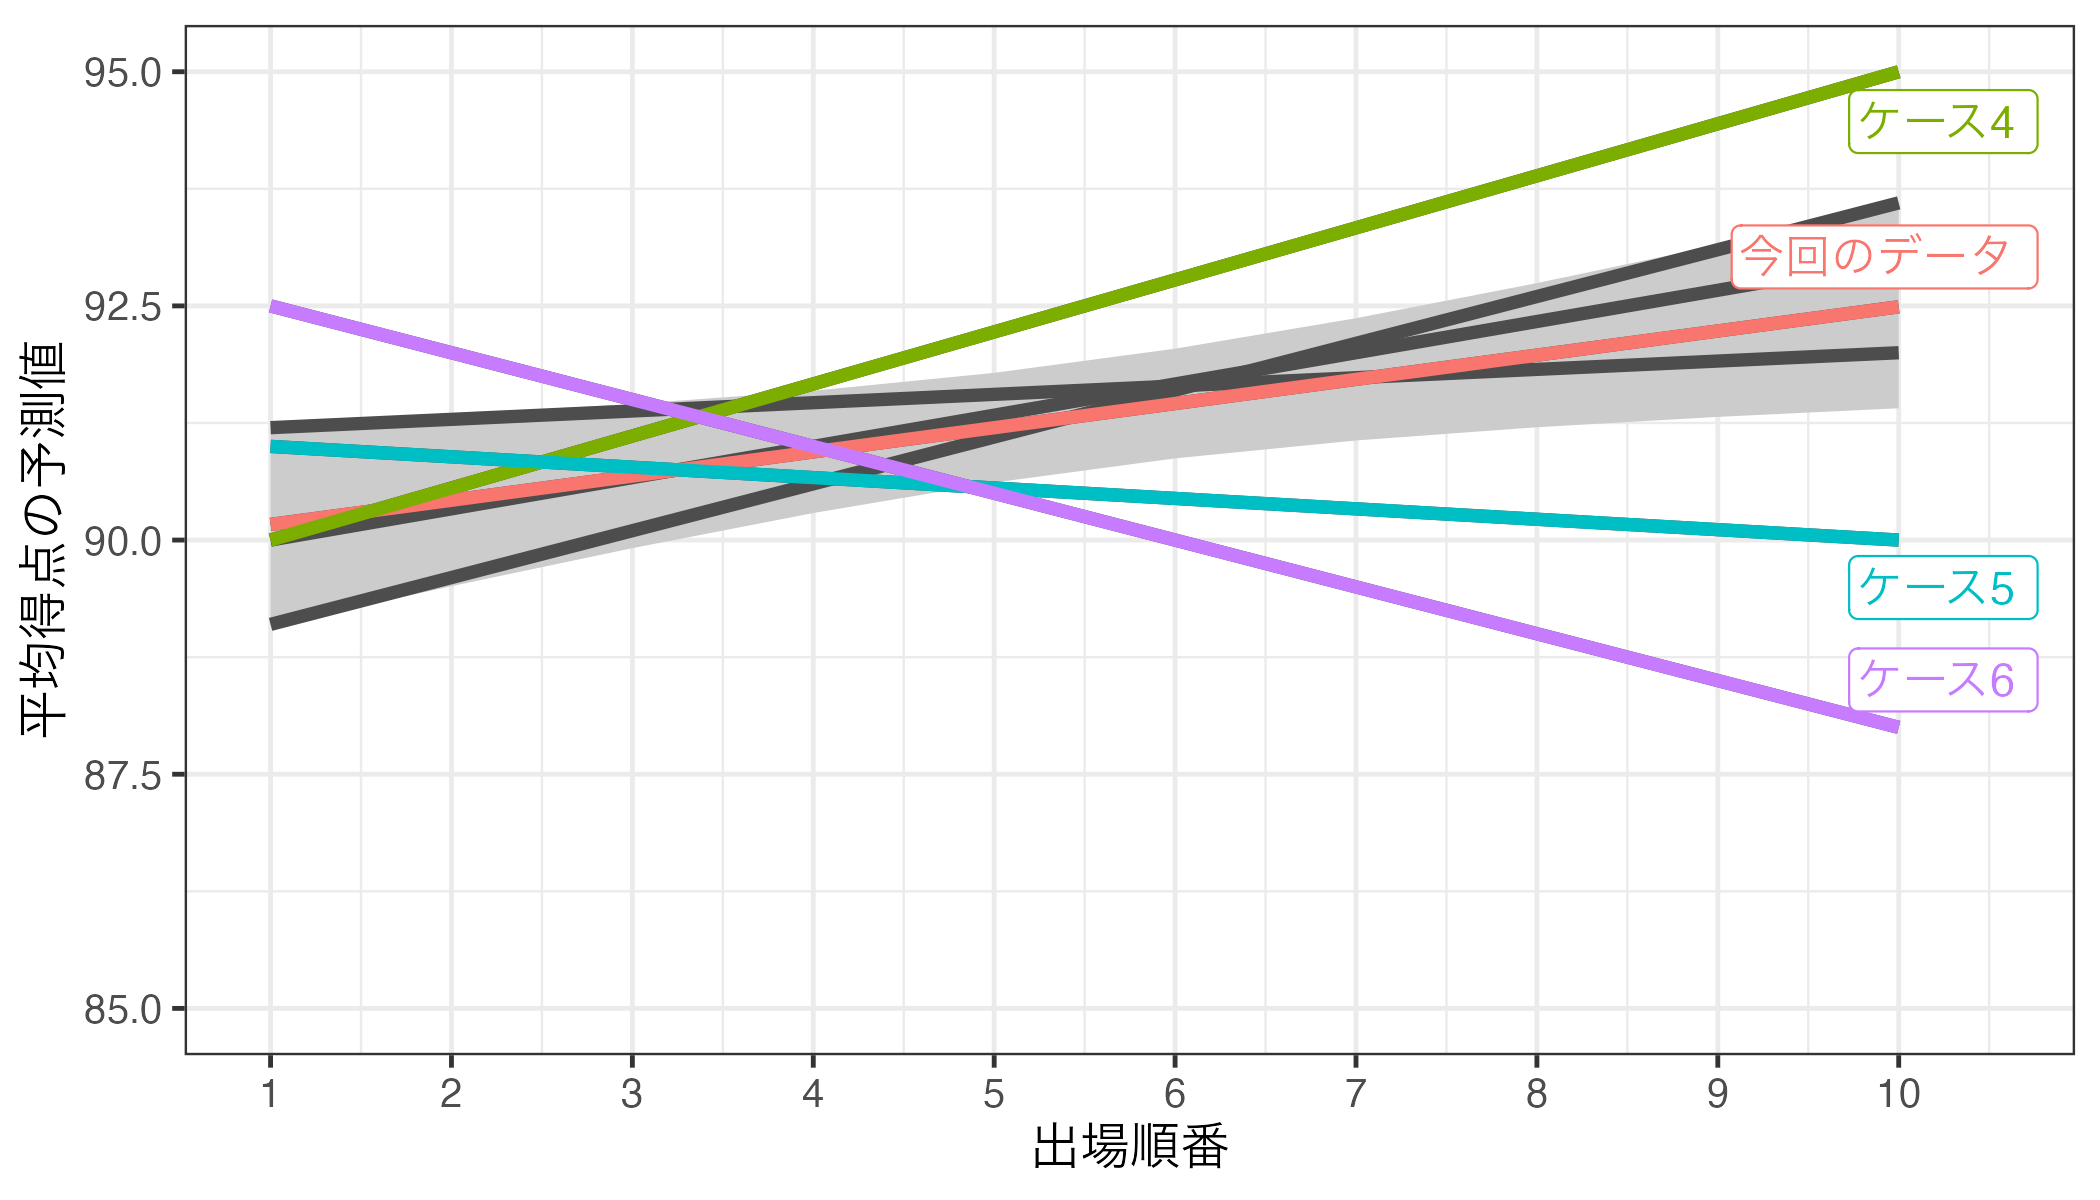
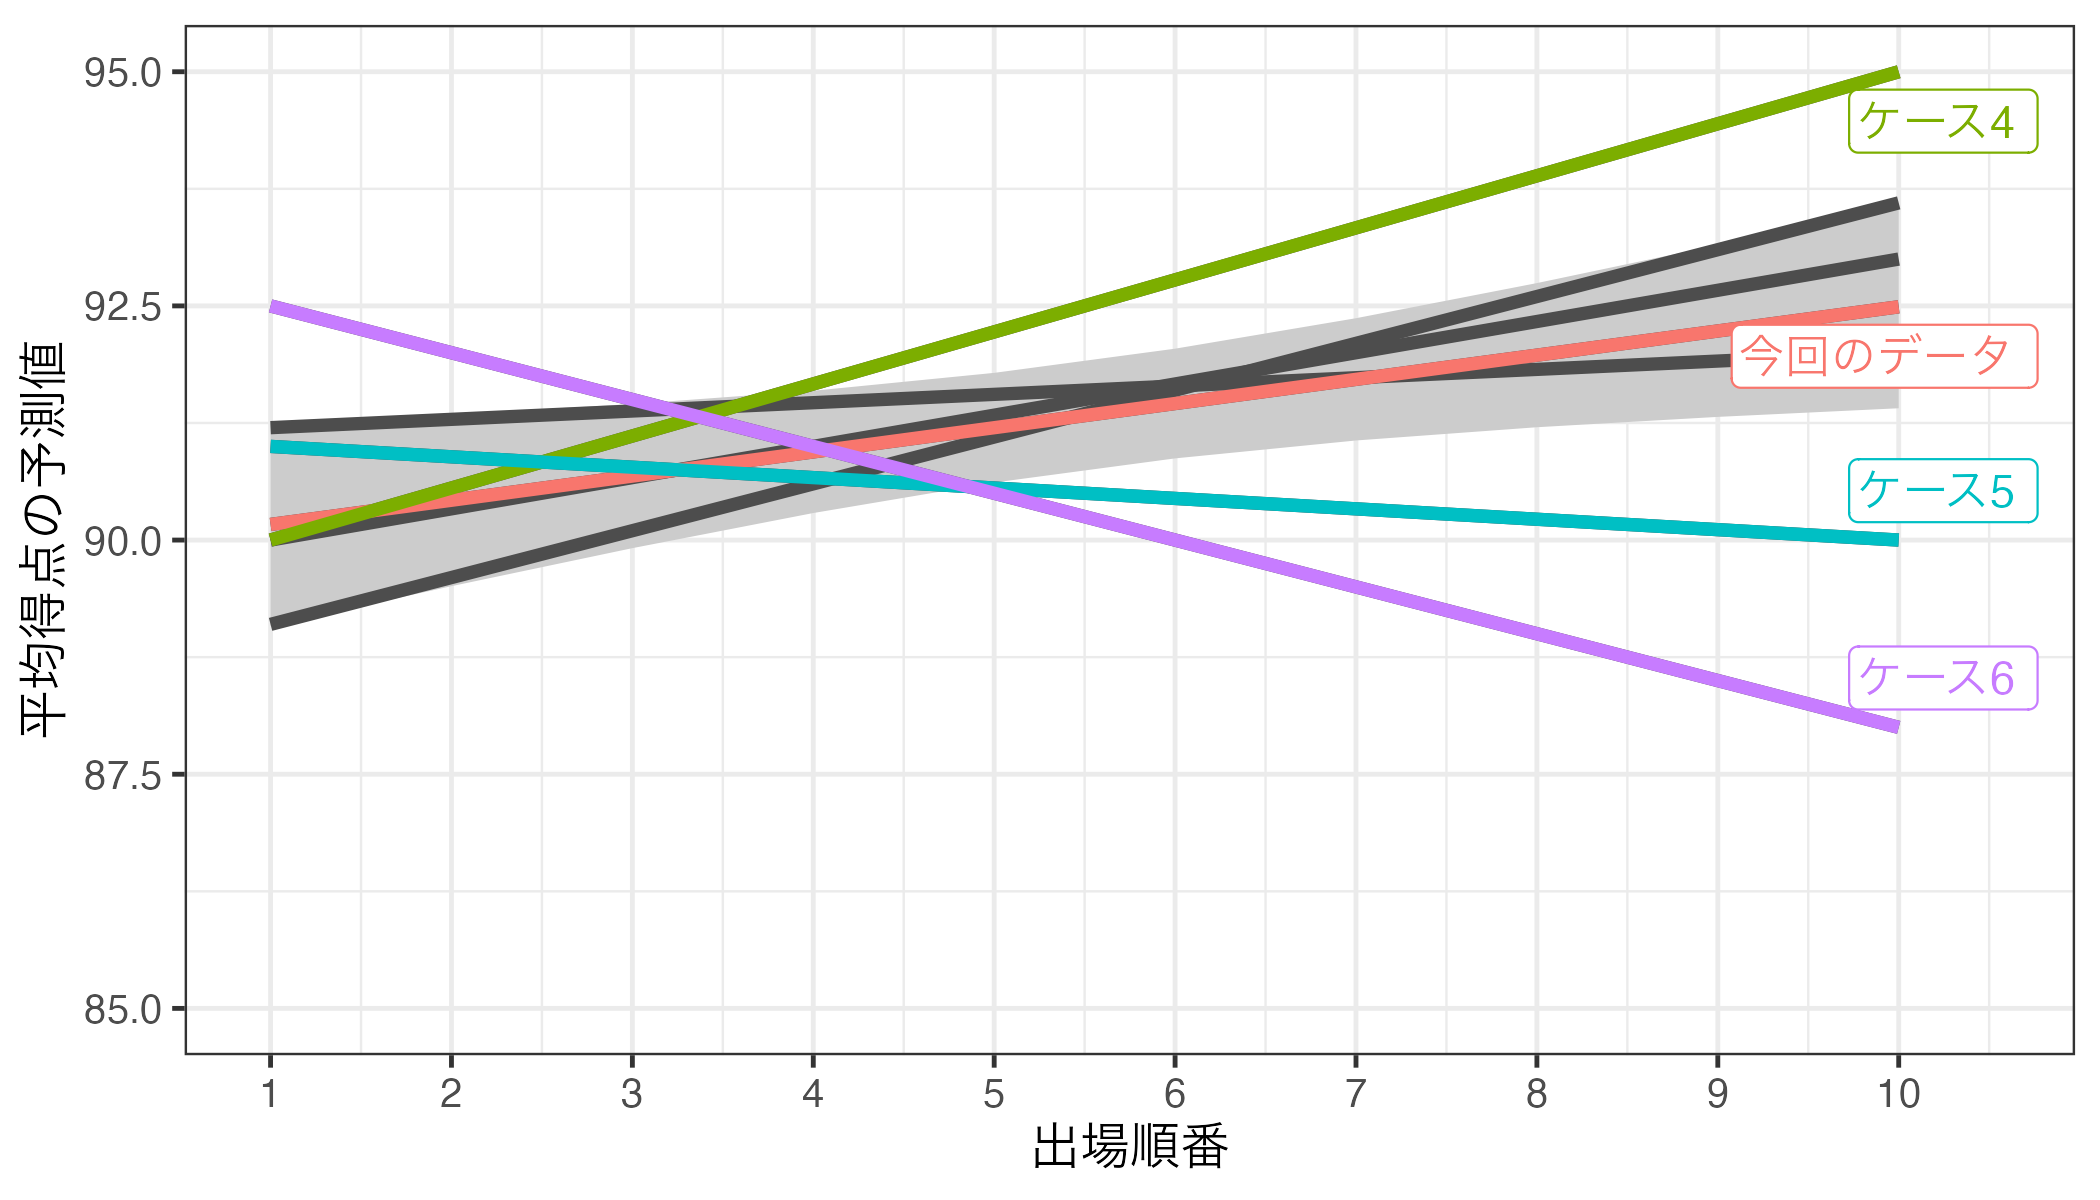
no message

diff --git a/docs/materials/macro/reporting.html b/docs/materials/macro/reporting.html
@@ -1784,15 +1784,11 @@ Type:  response </code></pre>
 <span id="cb37-4"><a href="#cb37-4"></a>fit3_pred5 <span class="sc">|&gt;</span></span>
 <span id="cb37-5"><a href="#cb37-5"></a>  <span class="fu">ggplot</span>(<span class="fu">aes</span>(<span class="at">x =</span> Duration)) <span class="sc">+</span> </span>
 <span id="cb37-6"><a href="#cb37-6"></a>  <span class="fu">geom_ribbon</span>(<span class="fu">aes</span>(<span class="at">ymin =</span> conf.low, <span class="at">ymax =</span> conf.high), <span class="at">fill =</span> <span class="st">"gray70"</span>) <span class="sc">+</span></span>
-<span id="cb37-7"><a href="#cb37-7"></a>  <span class="fu">geom_segment</span>(<span class="fu">aes</span>(<span class="at">x =</span> <span class="dv">2</span>, <span class="at">xend =</span> <span class="dv">16</span>, <span class="at">y =</span> <span class="fl">91.09444</span>, <span class="at">yend =</span> <span class="fl">91.44930</span>),</span>
-<span id="cb37-8"><a href="#cb37-8"></a>               <span class="at">linewidth =</span> <span class="dv">1</span>, <span class="at">color =</span> <span class="st">"#00798C"</span>) <span class="sc">+</span></span>
-<span id="cb37-9"><a href="#cb37-9"></a>  <span class="fu">geom_segment</span>(<span class="fu">aes</span>(<span class="at">x =</span> <span class="dv">2</span>, <span class="at">xend =</span> <span class="dv">16</span>, <span class="at">y =</span> <span class="fl">90.26250</span>, <span class="at">yend =</span> <span class="fl">92.02425</span>),</span>
-<span id="cb37-10"><a href="#cb37-10"></a>               <span class="at">linewidth =</span> <span class="dv">1</span>, <span class="at">color =</span> <span class="st">"#D1495B"</span>) <span class="sc">+</span></span>
-<span id="cb37-11"><a href="#cb37-11"></a>  <span class="fu">geom_line</span>(<span class="fu">aes</span>(<span class="at">y =</span> estimate), <span class="at">linewidth =</span> <span class="fl">1.5</span>) <span class="sc">+</span></span>
-<span id="cb37-12"><a href="#cb37-12"></a>  <span class="fu">scale_x_continuous</span>(<span class="at">breaks =</span> <span class="dv">2</span><span class="sc">:</span><span class="dv">16</span>, <span class="at">labels =</span> <span class="dv">2</span><span class="sc">:</span><span class="dv">16</span>) <span class="sc">+</span></span>
-<span id="cb37-13"><a href="#cb37-13"></a>  <span class="fu">labs</span>(<span class="at">x =</span> <span class="st">"コンビ結成からの経過年数"</span>, <span class="at">y =</span> <span class="st">"平均得点の予測値と95%信頼区間"</span>) <span class="sc">+</span></span>
-<span id="cb37-14"><a href="#cb37-14"></a>  <span class="fu">coord_cartesian</span>(<span class="at">ylim =</span> <span class="fu">c</span>(<span class="dv">88</span>, <span class="dv">93</span>)) <span class="sc">+</span></span>
-<span id="cb37-15"><a href="#cb37-15"></a>  <span class="fu">theme_bw</span>(<span class="at">base_size =</span> <span class="dv">12</span>)</span></code><button title="コピーする" class="code-copy-button"><i class="bi"></i></button></pre></div>
+<span id="cb37-7"><a href="#cb37-7"></a>  <span class="fu">geom_line</span>(<span class="fu">aes</span>(<span class="at">y =</span> estimate), <span class="at">linewidth =</span> <span class="fl">1.5</span>) <span class="sc">+</span></span>
+<span id="cb37-8"><a href="#cb37-8"></a>  <span class="fu">scale_x_continuous</span>(<span class="at">breaks =</span> <span class="dv">2</span><span class="sc">:</span><span class="dv">16</span>, <span class="at">labels =</span> <span class="dv">2</span><span class="sc">:</span><span class="dv">16</span>) <span class="sc">+</span></span>
+<span id="cb37-9"><a href="#cb37-9"></a>  <span class="fu">labs</span>(<span class="at">x =</span> <span class="st">"コンビ結成からの経過年数"</span>, <span class="at">y =</span> <span class="st">"平均得点の予測値と95%信頼区間"</span>) <span class="sc">+</span></span>
+<span id="cb37-10"><a href="#cb37-10"></a>  <span class="fu">coord_cartesian</span>(<span class="at">ylim =</span> <span class="fu">c</span>(<span class="dv">88</span>, <span class="dv">93</span>)) <span class="sc">+</span></span>
+<span id="cb37-11"><a href="#cb37-11"></a>  <span class="fu">theme_bw</span>(<span class="at">base_size =</span> <span class="dv">12</span>)</span></code><button title="コピーする" class="code-copy-button"><i class="bi"></i></button></pre></div>
 </div>
 </div>
 <div class="cell quarto-layout-panel">
